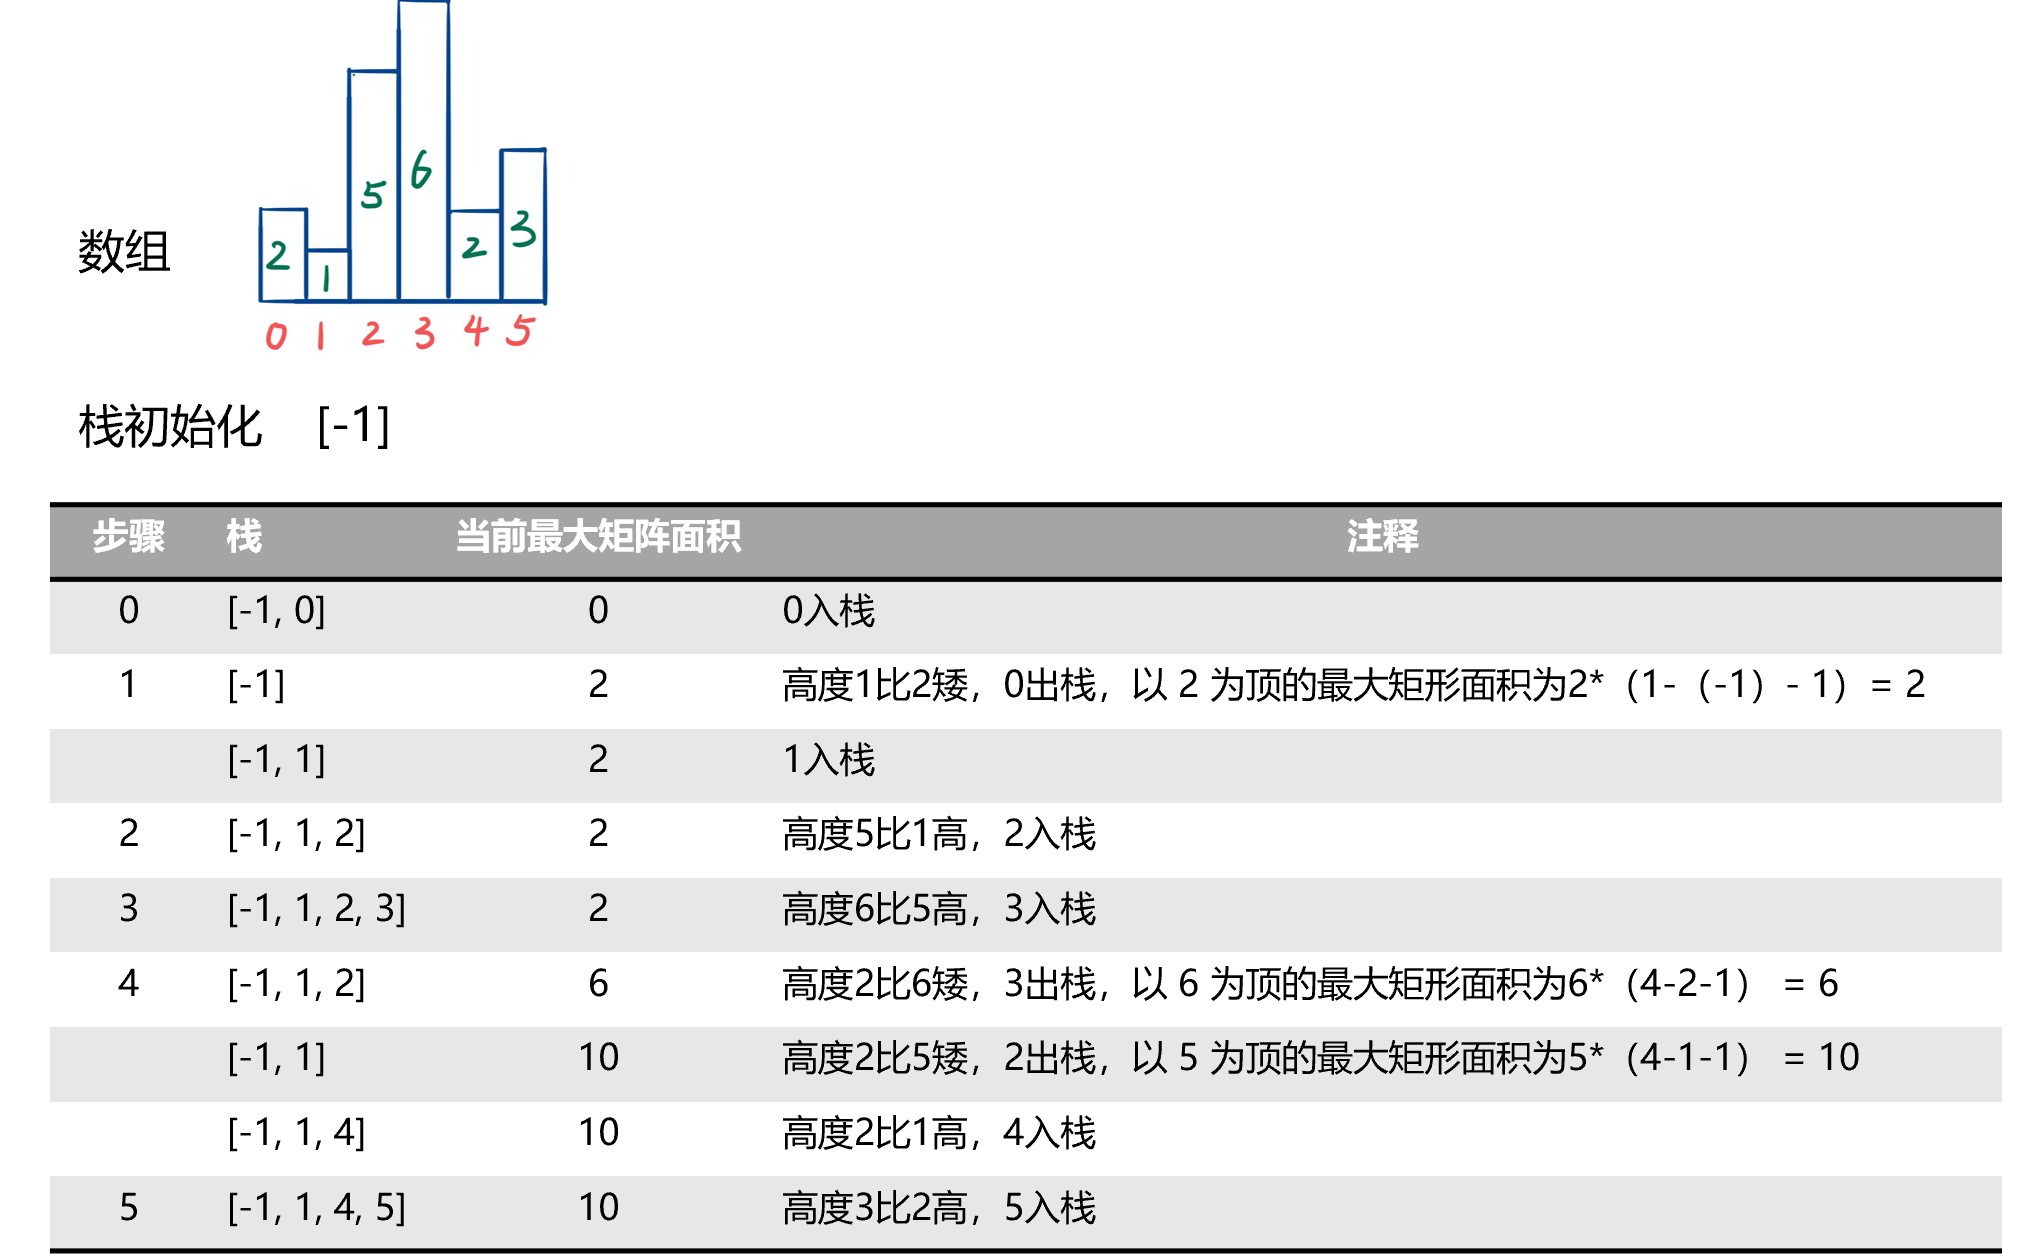
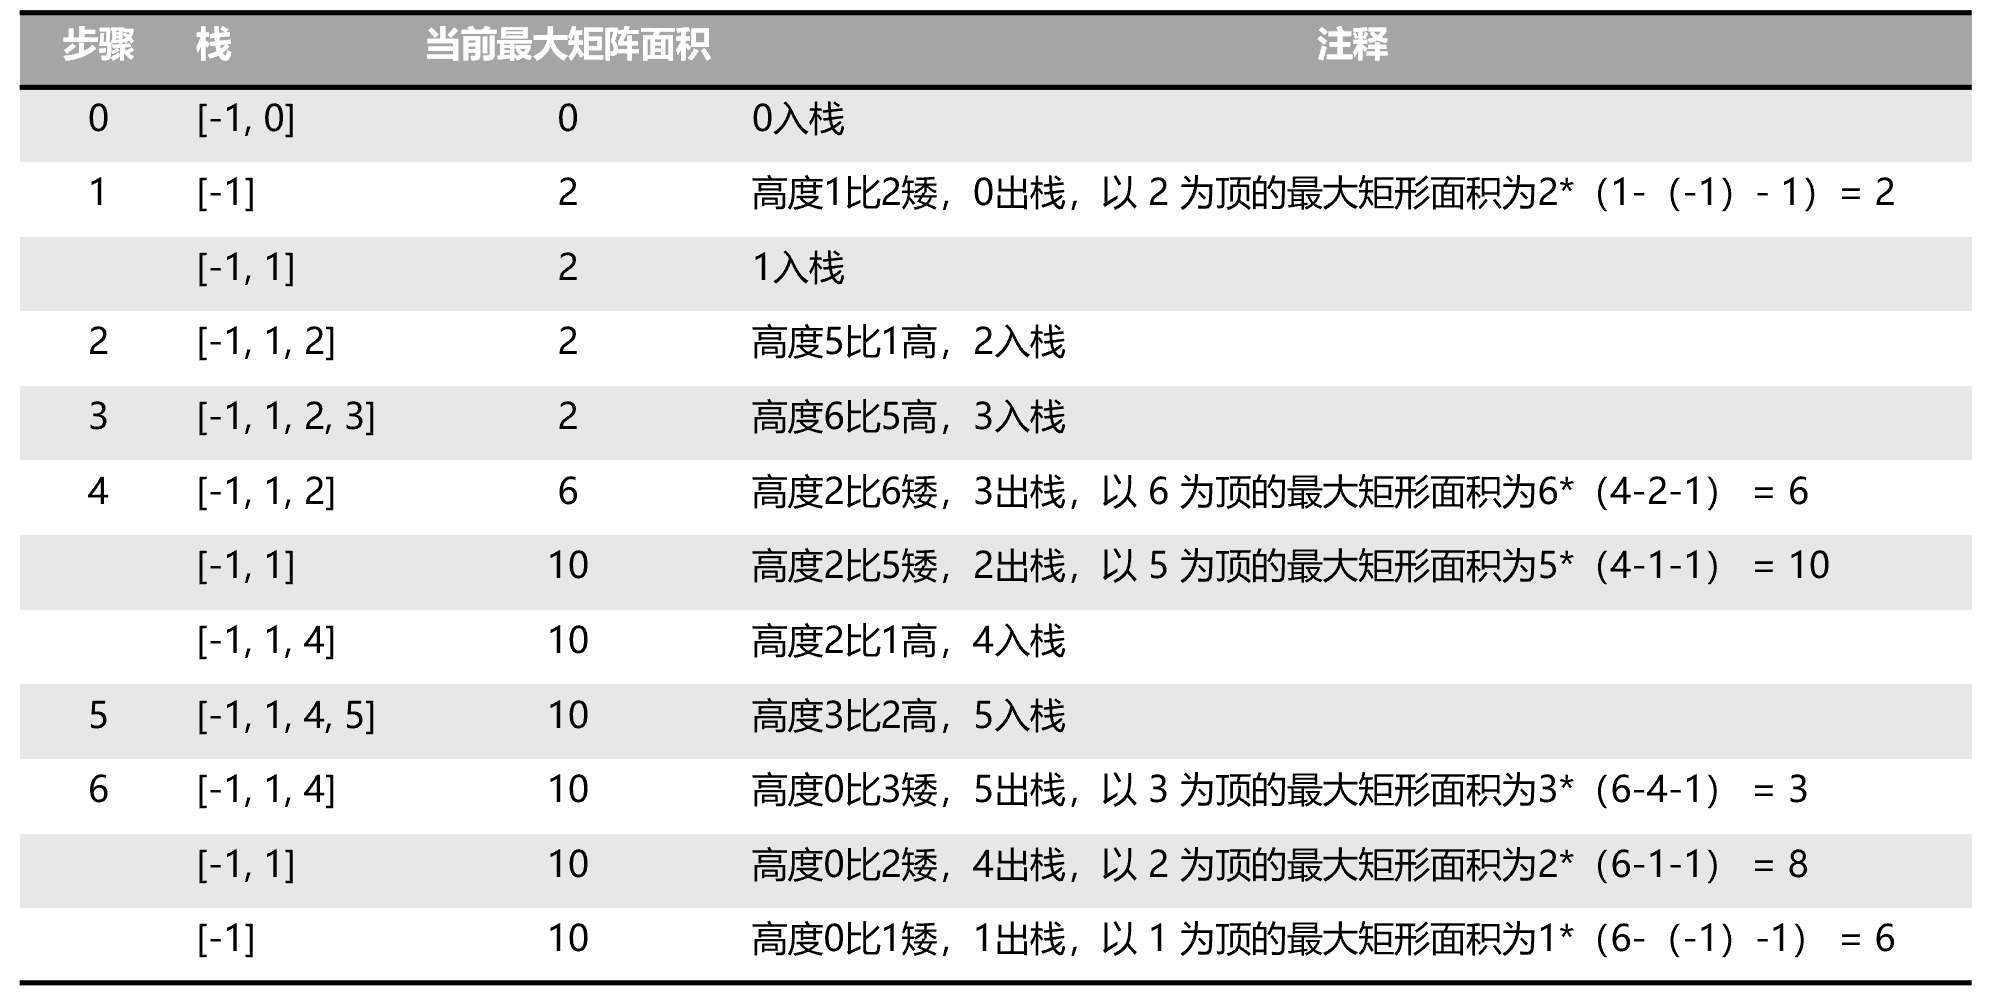
删除了重复图片

diff --git a/app/codes/2/largestRectangleArea.md b/app/codes/2/largestRectangleArea.md
@@ -68,11 +68,9 @@ var largestRectangleArea = function(heights) {
 
 ![](../../images/2/largestRectangleArea-3.png)
 
-![](../../images/2/largestRectangleArea-4.png)
-
 通过上图可以发现，最后栈中除了为方便处理而加入的用来初始化的-1以外，还有1,4,5三个元素，对应的就是高度为1,2,3的柱子的下标。也就是说我们还没有计算出以1,2,3位高度的矩形的面积。这是因为，我们并没有找到比这三个柱子还矮的柱子，也就是说，我们最后如果加入一个高度为0的柱子，就可以将除了-1以外的栈中保存的所有柱子的下标都出栈，那么所有柱子对应的矩形面积则都会被计算，找出计算的矩形面积的最大值即可。如下图所示:
 
-![](../../images/2/largestRectangleArea-5.png)
+![](../../images/2/largestRectangleArea-4.png)
 
 ```js
 /**
